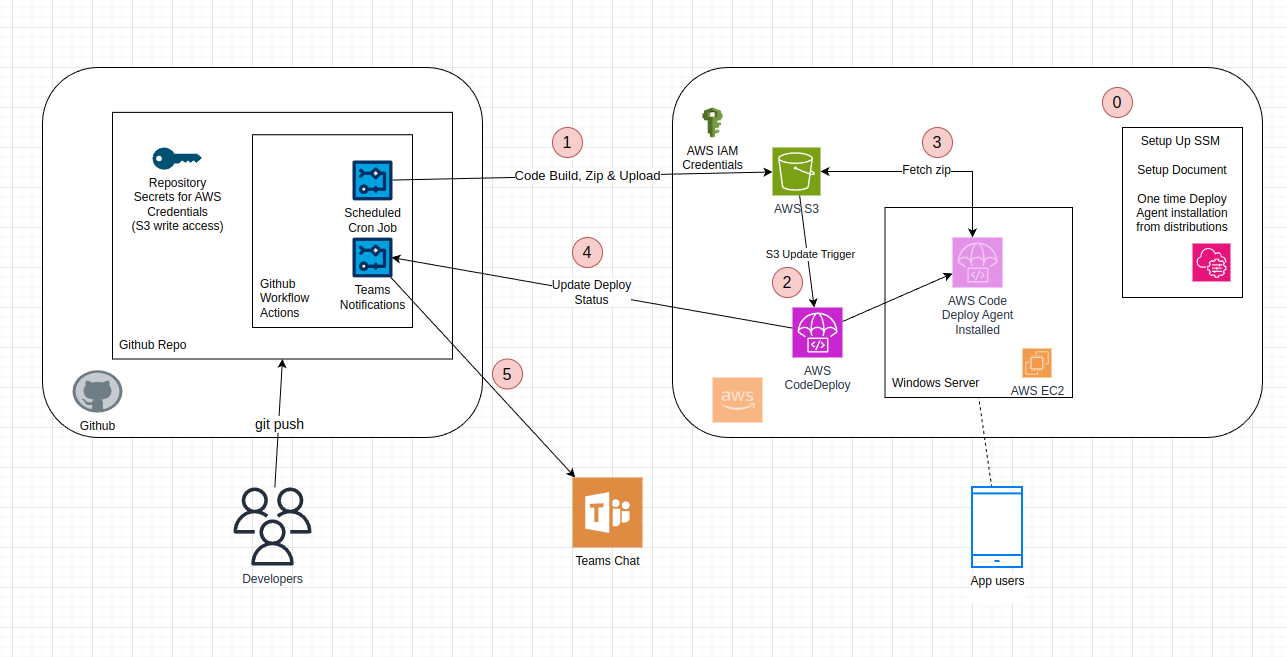
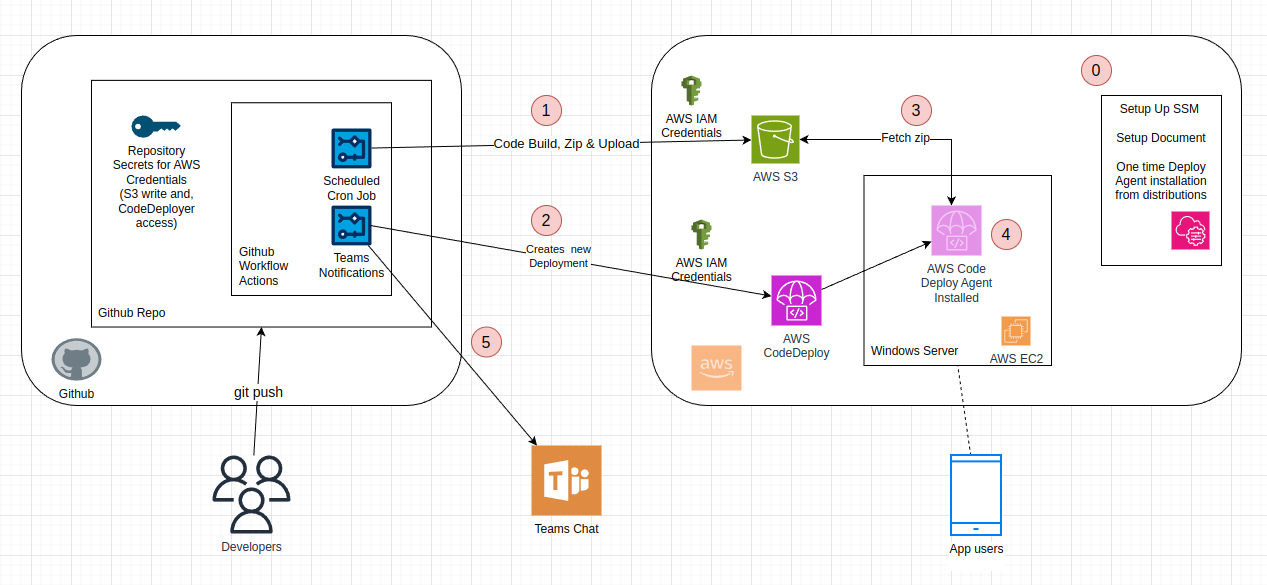
updated docs

diff --git a/README.md b/README.md
@@ -15,16 +15,15 @@ We have a Github repo and a dotnet webapp hosted on windows server IIS (AWS EC2)
 
 ### Here are the steps invoved in the process
 
-**Step 0:** Perform one-time CodeDeploy agent installation, Create SSM document for CodeDeploy, Setup S3 write access credentials for Github workflow Agent  
+**Step 0:** Perform one-time CodeDeploy agent installation via SSM distributions, Setup S3 write access & codedeployer credentials for Github workflow Agent  
 
 **Step 1:** Triggered build, zip and code push to AWS S3 from Github workflows. Steps in workflow yaml
 
-**Step 2:** S3 Update triggers a CodeDeploy via CodeDeploy agent in the windows server.
+**Step 2:** Create a AWS CodeDeploy deployment using the CLI command in workflow.
 
 **Step 3:** Code deploy agent fethcing the S3 code, unzipping it, running the app and relevant services, and restarting the IIS site.
- 
 
-**Step 4:** Code Deploy agent sends the teams group notifications 
+**Step 4:** Code Deploy agent runs all the pre/post installation scripts for cleanup, server updates etc. 
 
 **Step 5:** Team chat displays the Deploy status.
 
@@ -121,6 +120,9 @@ while picking deployment configurations, stick with All at once https://docs.aws
 deploy hooks and corresponding scripts are created in `appspec.yaml` file 
 for more on hooks https://docs.aws.amazon.com/codedeploy/latest/userguide/reference-appspec-file-structure-hooks.html
 
+
+
+
 ### Setup AWS Sytems Manager
 
 make sure the EC2 has the fullssmaccess policy to work seamlessly with the codedeploy agent.
@@ -131,6 +133,8 @@ make sure the EC2 has the fullssmaccess policy to work seamlessly with the coded
 https://docs.github.com/en/actions/automating-builds-and-tests/building-and-testing-net
 
 Workflow will need access to S3 to push the build zip file, therefore create an AWS CLI credential with least privilege (only write access to select bucket) and update the credentials in Github repository secrets for Actions.
+
+Also attach `AWSCodeDeployDeployerAccess` policy for github workflow to create deployments.
 
 ```
 AWS_KEY_ID
